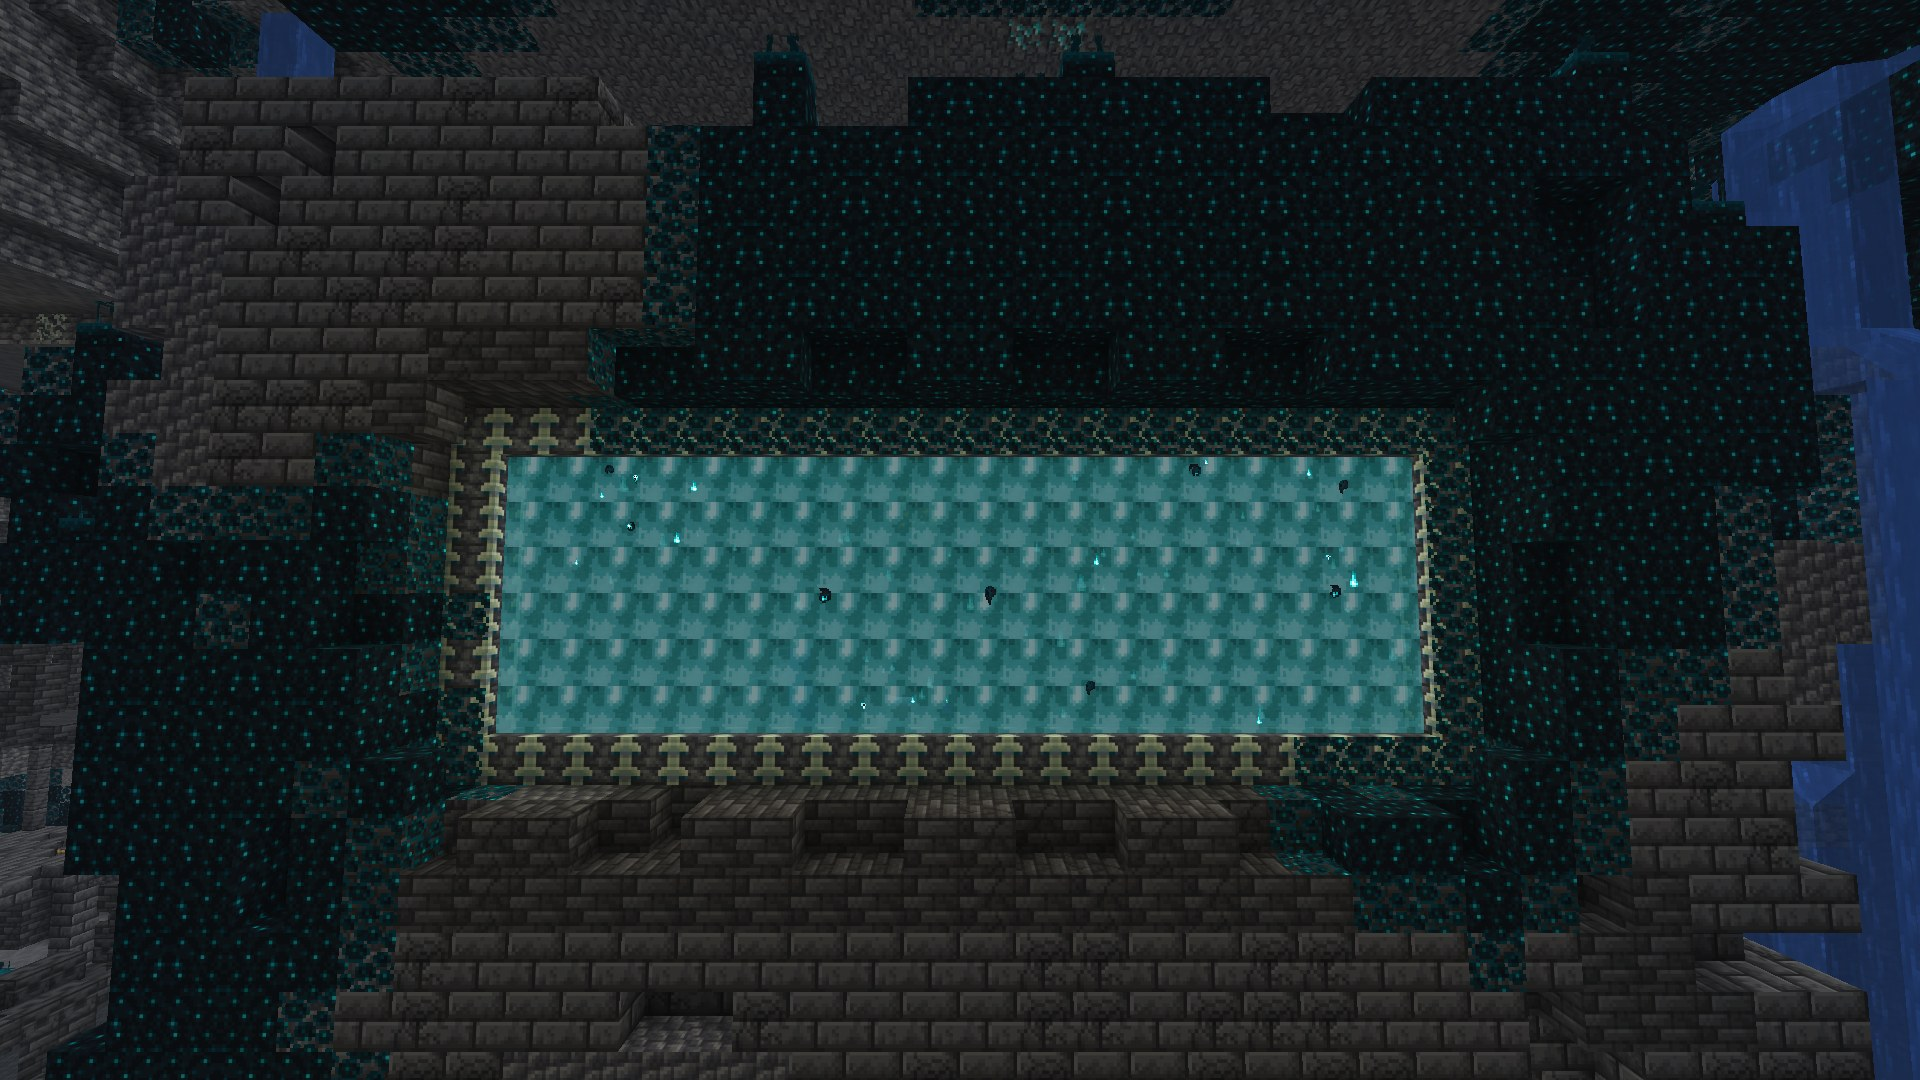
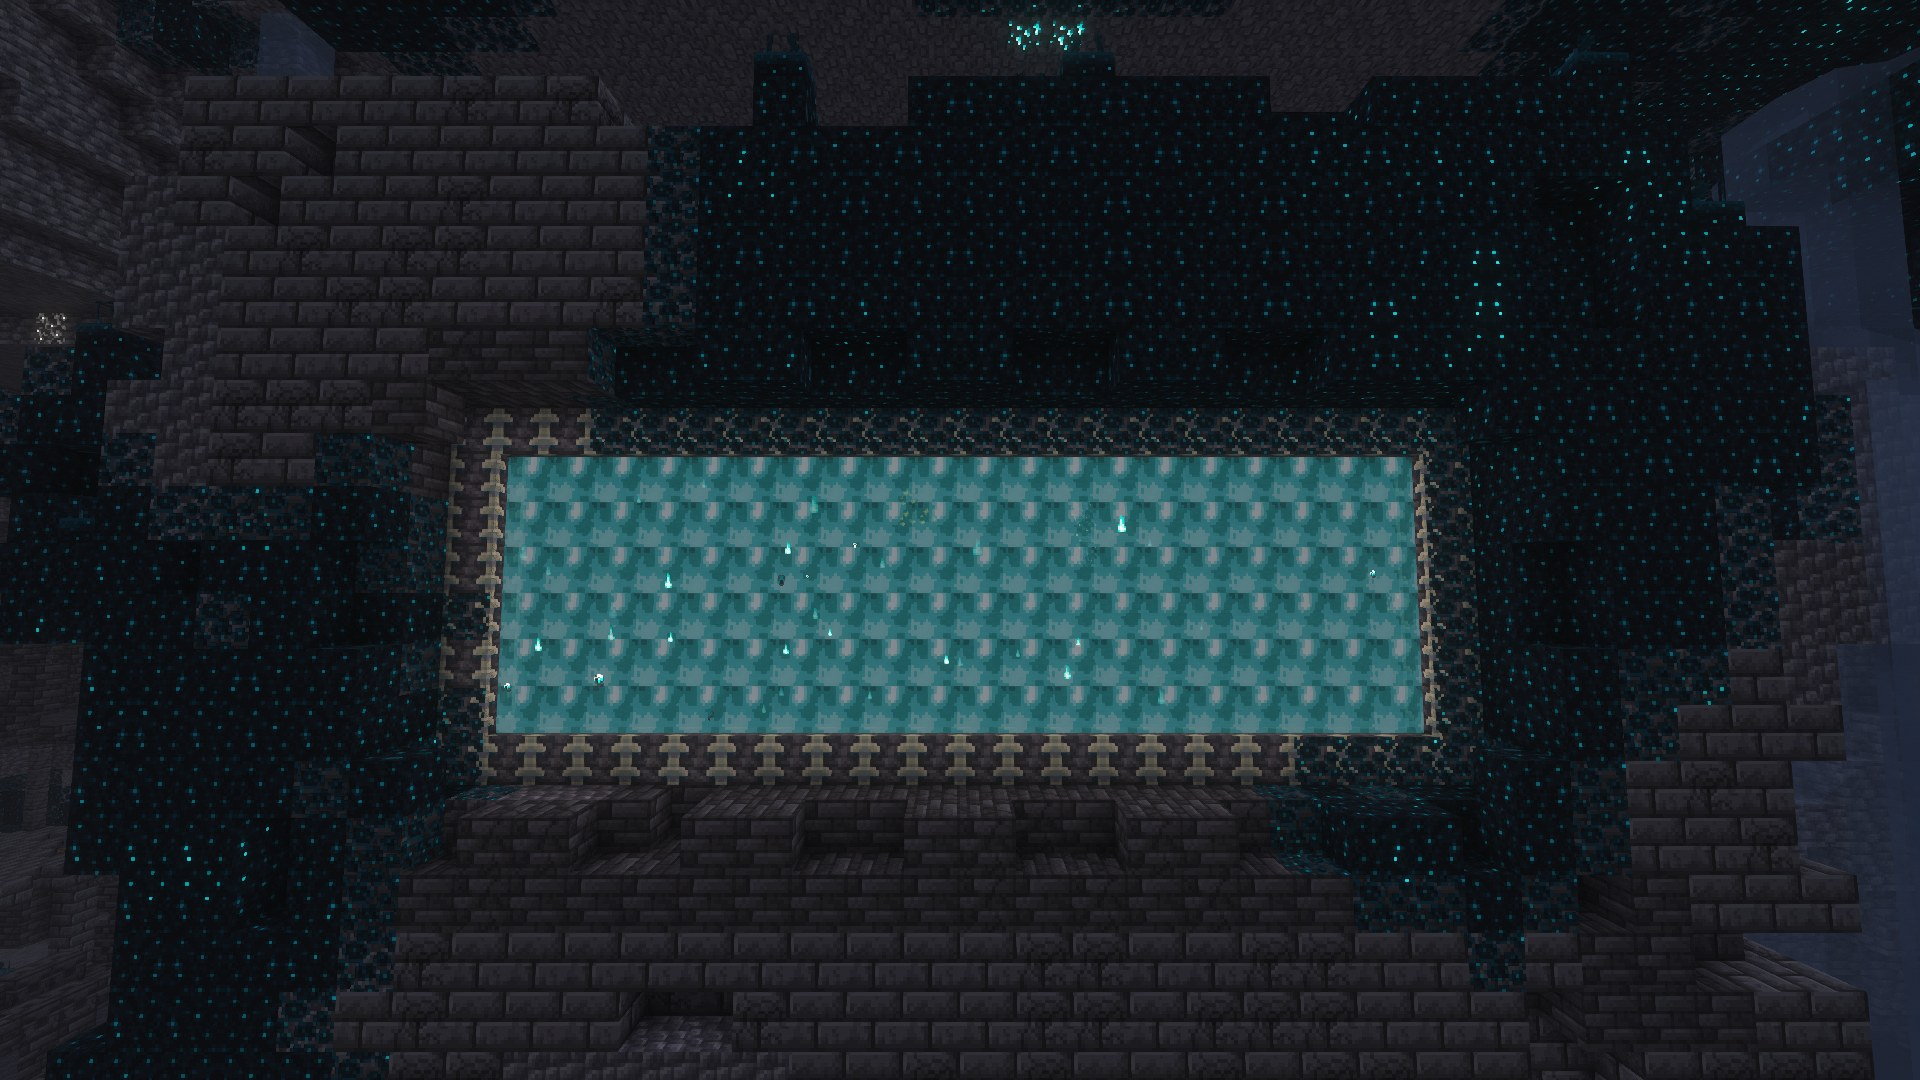
Sift title-screen panorama and shader screenshots
- assets/minecraft/textures/gui/title/background/panorama_0..5.png: the
  main-menu panorama is now a 360-degree view of the Lullaby Hills at Thrive
  Tide, shot in game with Iris + Complementary Unbound (six 100-degree faces
  cropped to 90 by tools/make_panorama.py, so no shader edge effects reach a
  seam). Checked in the real game: it shows behind the title screen next to
  the Sift splash texts.
- wiki/screenshots: all 13 README/wiki screenshots retaken with shaders
  (3.5 MB instead of 5.4 MB), plus title_screen.jpg in the README.
- README, CHANGELOG and CREDITS describe the title screen.

Claude-Session: https://claude.ai/code/session_01CEzjrhs8RFKjMsesRCXqQT

diff --git a/CHANGELOG.md b/CHANGELOG.md
@@ -9,7 +9,8 @@ All notable changes to The Sift Unbound. Versions follow `MAJOR.MINOR.PATCH`; th
   tagged, released on GitHub and uploaded to Modrinth by the new **auto-release** workflow.
 - **Modrinth publishing**: releases also upload the jar to [Modrinth](https://modrinth.com/project/w1FbpX4X) (needs
   the `MODRINTH_API_KEY` secret); the manual **modrinth** workflow uploads an existing release.
-- **Sift splash texts** on the title screen (*"The Sift!"*, *"Blub!"*, *"Mind the tide!"*…). They replace Minecraft's
+- **Sift title screen**: the main-menu panorama is a 360° view of the Lullaby Hills at Thrive Tide (shot in game with
+  shaders), and the splash texts are Sift ones (*"The Sift!"*, *"Blub!"*, *"Mind the tide!"*…). Both replace Minecraft's
   while the mod is installed.
 
 ### Changed

diff --git a/README.md b/README.md
@@ -18,6 +18,9 @@ Mojang revealed the Sift for *Minecraft Dungeons II* and announced it for Minecr
 * 🐰 **Blubs** (3 looks, breedable, bucketable), 👻 **Soul Wisps**, 🕷 **Sculk Prowlers**.
 * 🧱 **45 blocks**: the Pallid wood set, the Soulshale stone family, Sift grass and plants, Soul Shard ore…
 * 🏆 7 advancements, 19 original sound events and an original music track.
+* 🖼 A Sift **title screen**: a 360° panorama of the Lullaby Hills (shot in game with shaders) and Sift splash texts.
+
+![The Sift title screen](wiki/screenshots/title_screen.jpg)
 
 Everything (textures, models, sounds, music) is original and made for this project. See the **[wiki](wiki/Home.md)**.
 

diff --git a/CREDITS.md b/CREDITS.md
@@ -24,7 +24,7 @@ pick colours. They are not distributed.
 
 ## Screenshots and trailer
 
-* The screenshots in the README and the wiki were taken with [Iris Shaders](https://modrinth.com/mod/iris) and
+* The screenshots in the README and the wiki, and the title-screen panorama, were taken with [Iris Shaders](https://modrinth.com/mod/iris) and
   [Sodium](https://modrinth.com/mod/sodium) running [Complementary Shaders – Unbound](https://modrinth.com/shader/complementary-unbound)
   by EminGT. None of them is included in or required by the mod.
 * Trailer music: **“Minecraft – Epic Trailer” by Kalamity Music** (not included in this repository).
